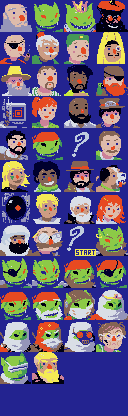
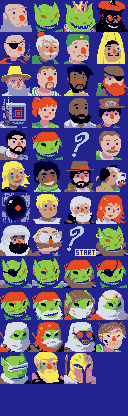
fix amplifier, add sylph sentry encounter

Changed region(s): [[0.5, 0.8438, 0.75, 0.9375]]

diff --git a/source/skyland/rooms/amplifier.hpp b/source/skyland/rooms/amplifier.hpp
@@ -12,6 +12,7 @@
 #pragma once
 
 #include "skyland/room.hpp"
+#include "skyland/sharedVariable.hpp"
 #include "skyland/systemString.hpp"
 #include "skyland/tile.hpp"
 
@@ -19,6 +20,10 @@
 
 namespace skyland
 {
+
+
+
+extern SharedVariable energy_glow_color;
 
 
 
@@ -31,7 +36,7 @@ public:
         sprite_.set_tidx_16x16(31, 0);
         sprite_.set_position(pos);
         sprite_.set_origin({});
-        sprite_.set_mix({ColorConstant::electric_blue, 255});
+        sprite_.set_mix({custom_color(energy_glow_color), 255});
     }
 
 
@@ -179,7 +184,7 @@ public:
         Sprite sprite;
         sprite.set_size(Sprite::Size::w16_h32);
         sprite.set_texture_index(13);
-        sprite.set_mix({ColorConstant::electric_blue, 255});
+        sprite.set_mix({custom_color(energy_glow_color), 255});
 
         for (int x = pos.x - 1; x < pos.x + 2; ++x) {
 

diff --git a/source/data/character_art.h b/source/data/character_art.h
@@ -9,7 +9,7 @@
 //	+ 832 tiles Metatiled by 4x4 not compressed
 //	Total size: 32 + 26624 = 26656
 //
-//	Time-stamp: 2025-07-20, 09:52:40
+//	Time-stamp: 2025-08-17, 11:40:58
 //	Exported by Cearn's GBA Image Transmogrifier, v0.9.2
 //	( http://www.coranac.com/projects/#grit )
 //
